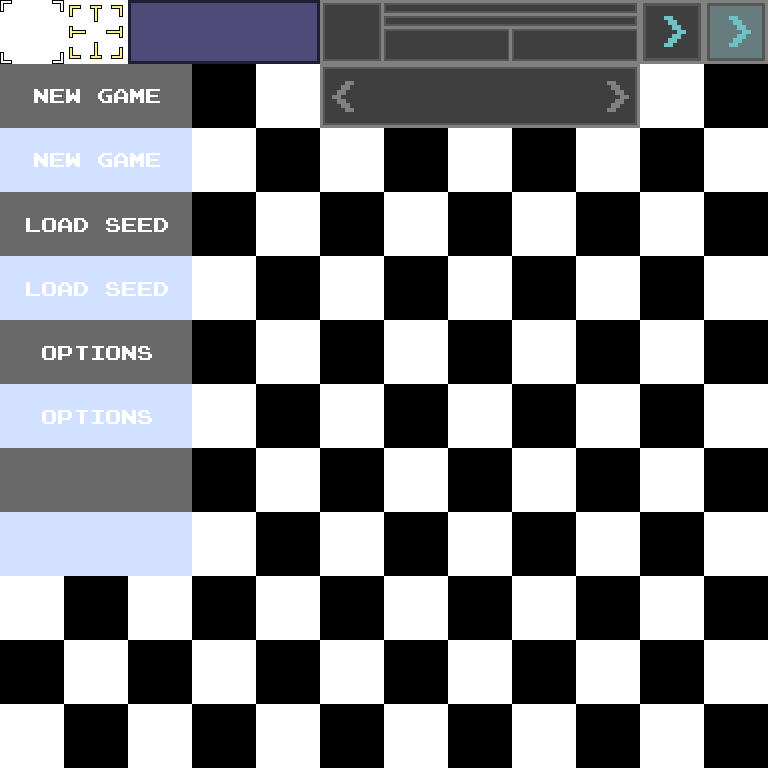
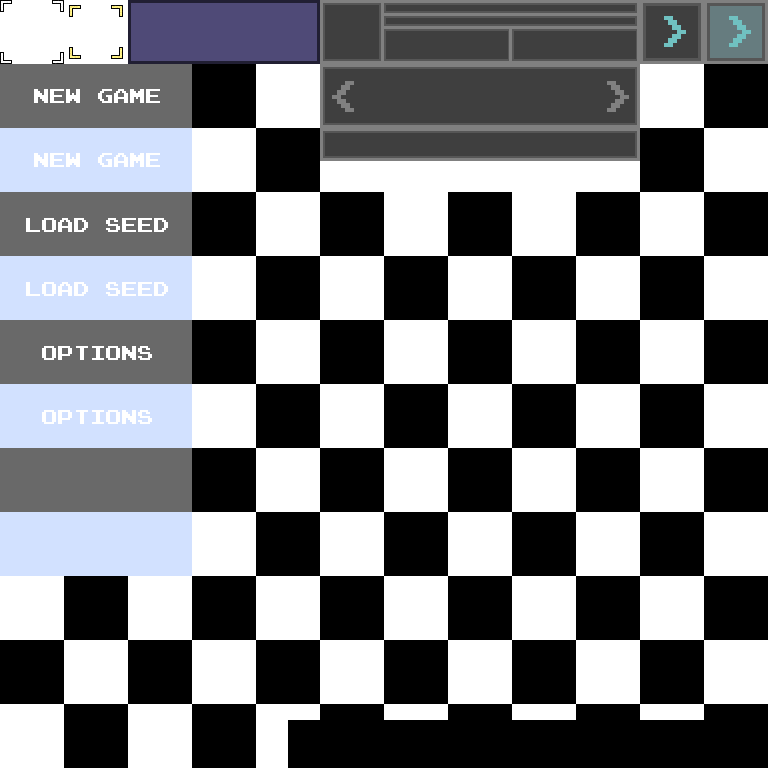
Added drop ability

diff --git a/SharpDungeon/Game/Entities/Player.cs b/SharpDungeon/Game/Entities/Player.cs
@@ -14,27 +14,29 @@ using System.Windows.Forms;
 namespace SharpDungeon.Game.Entities {
     public class Player : Entity {
 
-        
-        Animation currentAnimation, walkLeft, walkRight;
-        Bitmap stayTex;
+
+        private Animation currentAnimation, walkLeft, walkRight;
+        private Bitmap stayTex;
         public Inventory inventory { get; set; }
 
-        Animation idle, playerState;
+        private Animation idle, playerState;
 
-        int offsX;
-        int offsY;
+        private int offsX;
+        private int offsY;
 
-        bool doorExist = false;
-        int doorX, doorY;
+        private bool doorExist = false;
+        private int doorX, doorY;
 
-        List<Point> direction = null;
-        int directionStep;
-        WaveAlg path;
-        Point thisPoint, nextPoint, i, j;
-        int thisX, thisY, speed = 32, dirStepX = 0, dirStepY = 0;
+        private List<Point> direction = null;
+        private int directionStep;
+        private WaveAlg path;
+        private Point thisPoint, nextPoint, i, j;
+        private int thisX, thisY, speed = 32, dirStepX = 0, dirStepY = 0;
 
-        int charge = 0, chargeTime = 0;
-        bool wasPressed = false;
+        private int charge = 0, chargeTime = 0, lastDelta = 0;
+        private bool renderDrop = false, wasRenderDrop = false;
+
+        private Bitmap selection;
 
         public int level { get; set; } = 1;
         public int xp { get; set; } = 0;
@@ -42,7 +44,9 @@ namespace SharpDungeon.Game.Entities {
         public int world { get; set; } = 1;
         public int attack { get; set; } = 5;
 
-        Random rnd = new Random();
+        private int dropNum = 0, twoItemsDropNum = 0;
+
+        private Random rnd = new Random();
         bool wasMid = false, wasMid2 = false;
         int oldX, oldY, oldMouseX, oldMouseY;
 
@@ -58,6 +62,7 @@ namespace SharpDungeon.Game.Entities {
             thisX = (int)x;
             thisY = (int)y;
 
+            selection = Assets.selection;
             inventory = new Inventory(handler);
             handler.game.gameCamera.centerOnEntity(this);
         }
@@ -188,6 +193,9 @@ namespace SharpDungeon.Game.Entities {
                     if (chargeTime < 10) {
                         chargeTime++;
 
+
+                        selection = Assets.target;
+
                         List<int> arr = new List<int>();
 
                         splitn((int)(x - handler.gameCamera.xOffset) + Tile.tileWidth / 2,
@@ -208,21 +216,47 @@ namespace SharpDungeon.Game.Entities {
                     } else {
                         chargeTime = 0;
                         charge = 0;
+                        selection = Assets.selection;
                     }
 
                 }
             }
 
-            inventory.render(g);
-            renderUI(g);
+            if (handler.mouseManager.mouseMid) {
 
-            TextRenderer.DrawText(g, $"charge = {charge}\nhealth = {handler.world.entityManager.player.health}\noffsetx = {handler.gameCamera.xOffset}\noffsety = {handler.gameCamera.yOffset}\nmid = {handler.mouseManager.mouseMid}\nmove = {handler.mouseManager.move}\ndirectionisnull? = {direction == null}\nwasMid = {wasMid}\nwasMid2 = {wasMid2}\nthisX = {thisX}\nthisY = {thisY}\ndirStepX = {dirStepX}\ndirStepY = {dirStepY}\nisRightAnimation = { ((int)x / Tile.tileWidth > handler.world.toWorldX(handler.mouseManager.mouseX)).ToString() }", Assets.themeFont, new Point(0, 500), Color.White);
+                renderDrop = true;
+
+                if (lastDelta < handler.mouseManager.wheel) {
+                    if (dropNum > 0)
+                        dropNum--;
+                    if (twoItemsDropNum > 0)
+                        twoItemsDropNum--;
+                }
+
+                if (lastDelta > handler.mouseManager.wheel) {
+                    if (dropNum < 2)
+                        dropNum++;
+                    if (twoItemsDropNum < 1)
+                        twoItemsDropNum++;
+                }
+
+                lastDelta = handler.mouseManager.wheel;
+            } else {
+                if (renderDrop)
+                    renderDrop = false;
+            }
+
+            
+            renderUI(g);
+            inventory.render(g);
+
+            TextRenderer.DrawText(g, $"+ = {dropNum+inventory.scroll}\ndropNum = {dropNum}\nscroll = {inventory.scroll}\nwheel = {handler.mouseManager.wheel}\ncharge = {charge}\nhealth = {handler.world.entityManager.player.health}\noffsetx = {handler.gameCamera.xOffset}\noffsety = {handler.gameCamera.yOffset}\nmid = {handler.mouseManager.mouseMid}\nmove = {handler.mouseManager.move}\ndirectionisnull? = {direction == null}\nwasMid = {wasMid}\nwasMid2 = {wasMid2}\nthisX = {thisX}\nthisY = {thisY}\ndirStepX = {dirStepX}\ndirStepY = {dirStepY}\nisRightAnimation = { ((int)x / Tile.tileWidth > handler.world.toWorldX(handler.mouseManager.mouseX)).ToString() }", Assets.themeFont, new Point(0, 500), Color.White);
 
         }
 
         private void renderUI(System.Drawing.Graphics g) {
 
-            // Selection 
+            // Selection
             Rectangle ar = new Rectangle();
             int arSize = 64;
             ar.Width = arSize;
@@ -231,15 +265,10 @@ namespace SharpDungeon.Game.Entities {
             offsX = (int)(Tile.tileWidth - handler.gameCamera.xOffset % Tile.tileWidth);
             offsY = (int)(Tile.tileHeight - handler.gameCamera.yOffset % Tile.tileHeight);
 
-            g.DrawImage(Assets.selection, (offsX + ((Tile.tileWidth - offsX + handler.mouseManager.mouseX) / Tile.tileWidth) * Tile.tileWidth) - Tile.tileWidth,
-                                          (offsY + ((Tile.tileHeight - offsY + handler.mouseManager.mouseY) / Tile.tileHeight) * Tile.tileHeight) - Tile.tileHeight,
-                                          Tile.tileWidth,
-                                          Tile.tileHeight);
-
-            if (handler.mouseManager.rightPressed) {
-                
-
-            }
+            g.DrawImage(selection, (offsX + ((Tile.tileWidth - offsX + handler.mouseManager.mouseX) / Tile.tileWidth) * Tile.tileWidth) - Tile.tileWidth,
+                                   (offsY + ((Tile.tileHeight - offsY + handler.mouseManager.mouseY) / Tile.tileHeight) * Tile.tileHeight) - Tile.tileHeight,
+                                   Tile.tileWidth,
+                                   Tile.tileHeight);
 
                     
             //Minmap
@@ -280,6 +309,64 @@ namespace SharpDungeon.Game.Entities {
             g.FillRectangle(Brushes.LightGoldenrodYellow, 134 + handler.world.width * 8, 40, (int)(((double)xp / (double)maxXP) * (double)249 * 1.5f), 9);
             TextRenderer.DrawText(g, $"Level {level}", Assets.themeFont, new Point(165 + handler.world.width * 8, 70), Color.White);
             TextRenderer.DrawText(g, $"World {world}", Assets.themeFont, new Point(370 + handler.world.width * 8, 70), Color.White);
+
+            //Drop
+            g.DrawImage(Assets.playerDrop, 35 + handler.world.width * 8, 219, Assets.playerStates.Width * 1.5f, Assets.playerStates.Height * 1.5f);
+
+            if (renderDrop) {
+
+                wasRenderDrop = true;
+
+                if (inventory.inventoryItems.Count == 1)
+                    g.FillRectangle(Brushes.White, 230 + handler.world.width * 8, 236, 72, 15);
+
+                if (inventory.inventoryItems.Count == 2)
+                    if(twoItemsDropNum == 0)
+                        g.FillRectangle(Brushes.White, 198 + handler.world.width * 8, 236, 72, 15);
+                    else
+                        g.FillRectangle(Brushes.White, 284 + handler.world.width * 8, 236, 72, 15);
+
+                if (inventory.inventoryItems.Count > 2)
+                    if(dropNum == 0)
+                        g.FillRectangle(Brushes.White, 145 + handler.world.width * 8, 236, 72, 15);
+                    else if(dropNum == 1)
+                        g.FillRectangle(Brushes.White, 240 + handler.world.width * 8, 236, 72, 15);
+                    else if(dropNum == 2)
+                        g.FillRectangle(Brushes.White, 335 + handler.world.width * 8, 236, 72, 15);
+
+            } else if(wasRenderDrop) {
+                if(!handler.world.getTile(handler.world.toWorldX(handler.mouseManager.mouseX),
+                                          handler.world.toWorldY(handler.mouseManager.mouseY)).isSolid()) {
+                    if(inventory.inventoryItems.Count > 2) {
+                            Item item = inventory.inventoryItems[inventory.scroll + dropNum];
+                            item.count--;
+                            handler.world.itemManager.addItem(item.createNew(handler.world.toWorldX(handler.mouseManager.mouseX) * Tile.tileWidth,
+                                                                             handler.world.toWorldY(handler.mouseManager.mouseY) * Tile.tileHeight));
+                            if (item.count <= 0)
+                                inventory.inventoryItems.Remove(item);
+
+                    } else if(inventory.inventoryItems.Count == 2) {
+                        Item item = inventory.inventoryItems[inventory.scroll + twoItemsDropNum];
+                        item.count--;
+                        handler.world.itemManager.addItem(item.createNew(handler.world.toWorldX(handler.mouseManager.mouseX) * Tile.tileWidth,
+                                                                         handler.world.toWorldY(handler.mouseManager.mouseY) * Tile.tileHeight));
+                        if (item.count <= 0)
+                            inventory.inventoryItems.Remove(item);
+
+                    } else if(inventory.inventoryItems.Count == 1) {
+                        Item item = inventory.inventoryItems[inventory.scroll];
+                        item.count--;
+                        handler.world.itemManager.addItem(item.createNew(handler.world.toWorldX(handler.mouseManager.mouseX) * Tile.tileWidth,
+                                                                         handler.world.toWorldY(handler.mouseManager.mouseY) * Tile.tileHeight));
+                        if (item.count <= 0)
+                            inventory.inventoryItems.Remove(item);
+
+                    }
+
+                }
+                wasRenderDrop = false;
+            }
+            
         }
 
         public void splitn(int x1, int y1, int x2, int y2, List<int> arr, int cnt) {

diff --git a/SharpDungeon/Game/Graphics/Assets.cs b/SharpDungeon/Game/Graphics/Assets.cs
@@ -36,7 +36,7 @@ namespace SharpDungeon.Game.Graphics {
         //Player
 
         public static Bitmap[] playerIdle, playerWalkLeft, playerWalkRight, playerAttackLeft, playerAttackRight;
-        public static Bitmap selection;
+        public static Bitmap selection, target;
 
         //Entities
 
@@ -50,7 +50,7 @@ namespace SharpDungeon.Game.Graphics {
         public static Brush uiFore = new SolidBrush(Color.FromArgb(128, 128, 128));
         public static Brush uiCent = new SolidBrush(Color.FromArgb(86, 86, 86));
         public static Brush uiBack = new SolidBrush(Color.FromArgb(63, 63, 63));
-        public static Bitmap playerStates, playerInventory;
+        public static Bitmap playerStates, playerInventory, playerDrop;
 
         //Brushes
 
@@ -177,6 +177,7 @@ namespace SharpDungeon.Game.Graphics {
                 
                 playerStates = uiSheet.crop(width * 5, 0, width * 5, height);
                 playerInventory = uiSheet.crop(width * 5, height, width * 5, height);
+                playerDrop = uiSheet.crop(width * 5, height * 2, width * 5, height);
 
                 playerWalkRight = new Bitmap[3];
                 playerWalkRight[0] = entitiesSheet.crop(0, 0, width, height);
@@ -266,6 +267,7 @@ namespace SharpDungeon.Game.Graphics {
                 itemShadow[5] = itemsSheet.crop(width, 0, width, height);
 
                 selection = uiSheet.crop(0, 0, width, height);
+                target = uiSheet.crop(width, 0, width, height);
 
                 newGameButton = new Bitmap[2];
                 newGameButton[0] = uiSheet.crop(0, height, width*3, height);

diff --git a/SharpDungeon/Game/Tiles/CraftingTableCoreTile.cs b/SharpDungeon/Game/Tiles/CraftingTableCoreTile.cs
@@ -7,17 +7,16 @@ using System.Text;
 using System.Threading.Tasks;
 
 namespace SharpDungeon.Game.Tiles {
-    public class CraftingTableCoreTile : TileSingleSide{
-
-        public List<Item> itemList;
+    public class CraftingTableCoreTile : TileSingleSide {
 
         public CraftingTableCoreTile(int id) : base(Assets.craftingTableCore[0], id) {
-            
+
         }
 
         public override void tick(Handler handler, int x, int y) {
-            if(handler.world.toWorldX((int)handler.world.entityManager.player.x) == x &&
-               handler.world.toWorldY((int)handler.world.entityManager.player.y) == y) {
+
+            if ((int)(handler.world.entityManager.player.x) / Tile.tileWidth == x &&
+                (int)(handler.world.entityManager.player.y) / Tile.tileHeight == y) {
                 currentTex = Assets.craftingTableCore[1];
                 handler.world.getTile(x - 1, y-1).currentTex = Assets.craftingTableCell[1];
                 handler.world.getTile(x, y-1).currentTex = Assets.craftingTableCell[1];
@@ -30,6 +29,10 @@ namespace SharpDungeon.Game.Tiles {
                 handler.world.getTile(x + 1, y - 1).currentTex = Assets.craftingTableCell[0];
                 handler.world.getTile(x, y + 1).currentTex = Assets.craftingTableCell[0];
             }
+        }
+
+        public override void render(System.Drawing.Graphics g, int x, int y) {
+            base.render(g, x, y);
         }
 
         public override bool isSolid() {

diff --git a/SharpDungeon/Game/Items/Inventory.cs b/SharpDungeon/Game/Items/Inventory.cs
@@ -13,15 +13,15 @@ namespace SharpDungeon.Game.Items {
         private bool active = false;
         public List<Item> inventoryItems { get; set; }
         private int xOff;
-        private int scroll = 0 ;
+        public int scroll = 0;
 
         public Inventory(Handler handler) {
             this.handler = handler;
             inventoryItems = new List<Item>();
 
-            //addItem(Item.redRupy.createNew(2));
-            //addItem(Item.greenRupy.createNew(2));
-            //addItem(Item.purpleRupy.createNew(2));
+            addItem(Item.redRupy.createNew(2));
+            addItem(Item.greenRupy.createNew(2));
+            addItem(Item.purpleRupy.createNew(2));
         }
 
         public void tick() {

diff --git a/SharpDungeon/Game/Tiles/CraftingTableCellTile.cs b/SharpDungeon/Game/Tiles/CraftingTableCellTile.cs
@@ -15,6 +15,17 @@ namespace SharpDungeon.Game.Tiles {
         public override void tick(Handler handler, int x, int y) {
         }
 
+        public override void render(System.Drawing.Graphics g, int x, int y) {
+            base.render(g, x, y);
+
+            //Tile t = handler.world.getTile(handler.world.toWorldX(x + 1), handler.world.toWorldY(y + 1));
+
+            //if (t is CraftingTableCoreTile)
+            //    g.DrawImage((CraftingTableCoreTile)t., x, y, width, height);
+
+            
+        }
+
         public override bool isSolid() {
             return false;
         }
